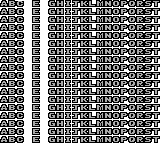
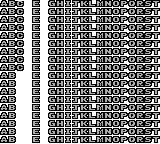
basic sprite fifo implementation, needs lots of work...

Changed region(s): [[0.0938, 0.5, 0.1562, 1.0]]

diff --git a/test_results/readme.md b/test_results/readme.md
@@ -3,7 +3,7 @@
 | Result | Test Name |
 |--------|-----------|
 | 👀 | cgb-acid2 |
-| 👀 | dmg-acid2 |
+| 👌 | dmg-acid2 |
 ## Acid Tests
 | Result | Test Name |
 |--------|-----------|
